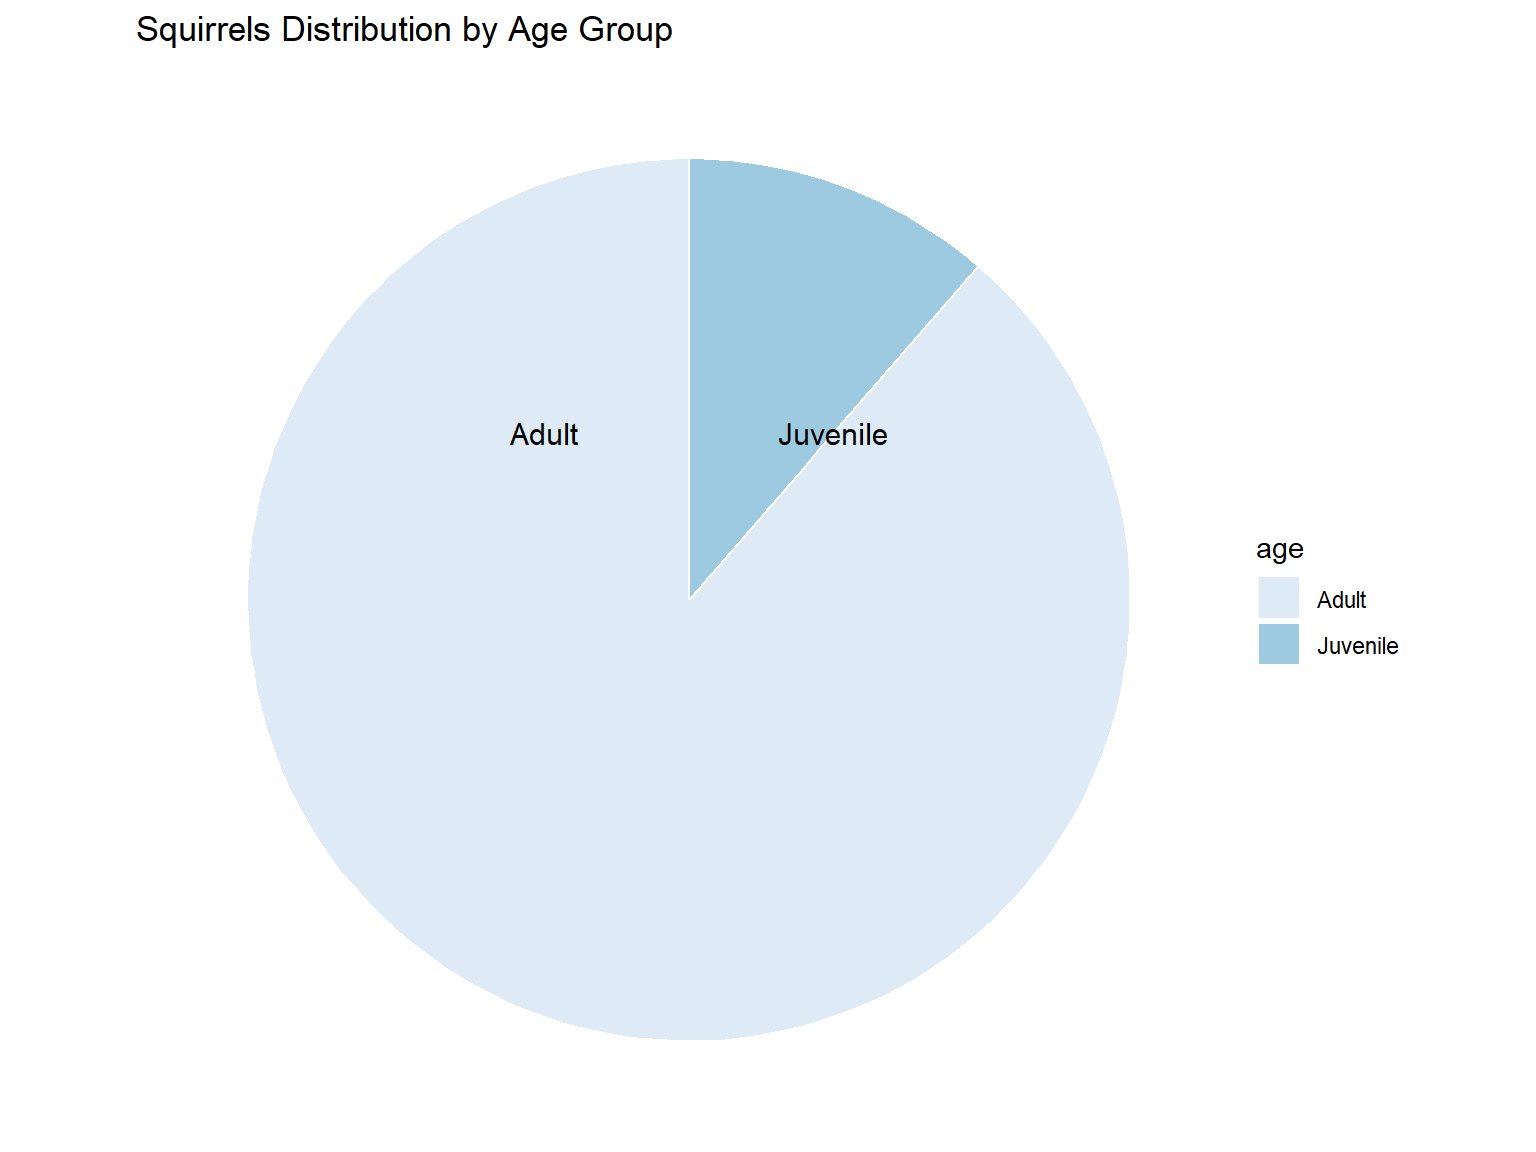
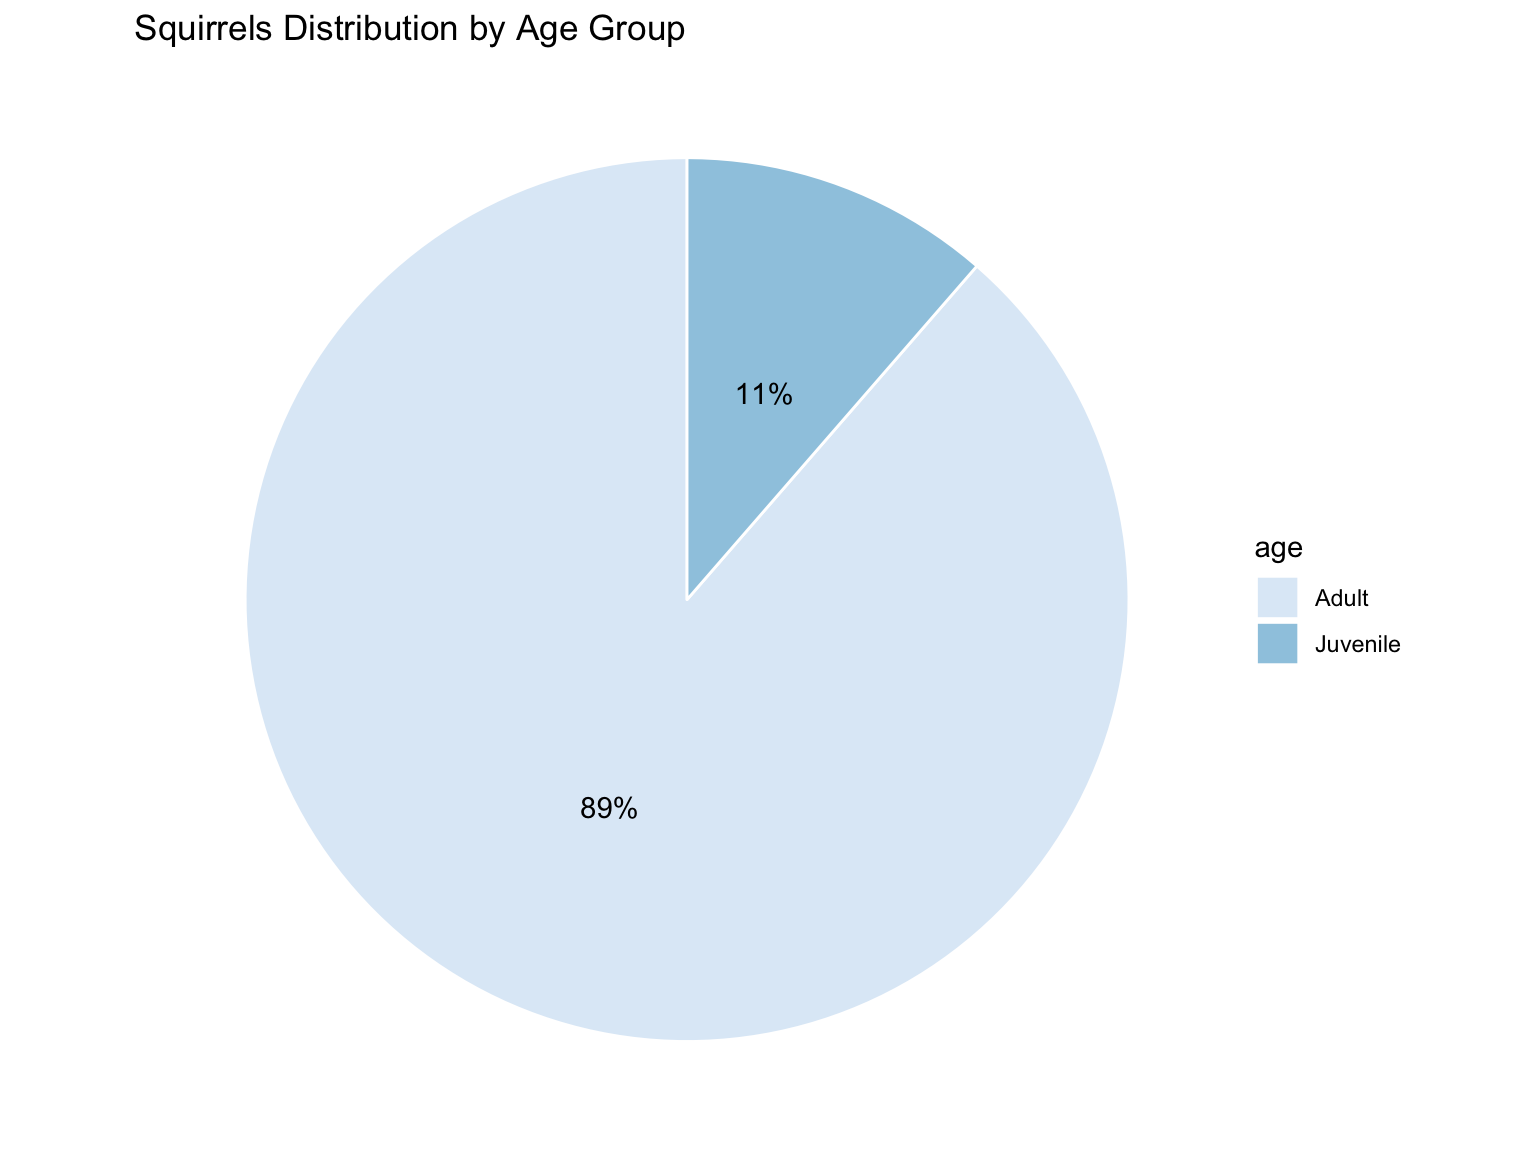
update pie chart

diff --git a/model.html b/model.html
@@ -392,9 +392,9 @@ div.tocify {
 <div id="central-park-squirrels-distribution-by-days-ampm"
 class="section level3">
 <h3>Central Park Squirrels Distribution by Days (AM/PM)</h3>
-<p>In this part, we were interested in looking at the Central Park
-Squirrel Census collected in October 2018. We make this graph to
-analysis the frequency of Squirrel recorded for each of the observation
+<p>In this part, we were interested in looking at the central park
+squirrel census collected in October 2018. We make this graph to
+analysis the frequency of squirrels recorded for each of the observation
 (AM or PM).</p>
 <pre class="r"><code>dates = 
   census %&gt;%
@@ -415,8 +415,8 @@ dates %&gt;%
 <div id="central-park-squirrels-distribution-by-primary-fur-colors"
 class="section level3">
 <h3>Central Park Squirrels Distribution by Primary Fur Colors</h3>
-<p>In this part, we were interested in the frequency of Squirrel
-recorded for each of the observation by primary fur color.</p>
+<p>In this part, we make this graph to analysis the frequency of
+squirrels recorded for each of the observation by primary fur color.</p>
 <pre class="r"><code>dates %&gt;%
   group_by(Day, primary_fur_color) %&gt;% 
   count() %&gt;%
@@ -433,36 +433,24 @@ recorded for each of the observation by primary fur color.</p>
 <div id="central-park-squirrels-distribution-by-age-group"
 class="section level3">
 <h3>Central Park Squirrels Distribution by Age Group</h3>
-<pre class="r"><code>dates %&gt;% 
+<p>In this part, we make this pie chart to display the percentage of
+squirrels by age group.</p>
+<pre class="r"><code>pie_1 = 
+  dates %&gt;% 
   filter(age !=&#39;?&#39;) %&gt;%
   group_by(age) %&gt;%
-  count()%&gt;%
+  count() 
+
+pie_1 %&gt;% 
+  mutate(prop = percent(n/sum(pie_1$n))) %&gt;% 
   ggplot(aes(x=&quot;&quot;, y = n, fill = age)) +
   geom_bar(stat=&quot;identity&quot;, width=1, color=&quot;white&quot;) +
-  coord_polar(&quot;y&quot;, start=0) + 
+  coord_polar(&quot;y&quot;, start = 0, direction = 1) + 
   theme_void() + 
   ggtitle(&#39;Squirrels Distribution by Age Group&#39;) +
-  geom_text(aes(y = n, label = age), color = &quot;black&quot;, size=4) +
-  scale_fill_brewer(palette=&quot;Blues&quot;)</code></pre>
+  geom_text(aes(label = prop),position = position_stack(vjust = 0.5)) +
+  scale_fill_brewer()</code></pre>
 <p><img src="model_files/figure-html/unnamed-chunk-4-1.png" width="90%" /></p>
-<pre class="r"><code>dates %&gt;%
-  filter(age !=&#39;?&#39;) %&gt;%
-  mutate(n=1) %&gt;%
-  group_by(age,primary_fur_color) %&gt;% 
-  count() %&gt;% 
-  ggplot(aes(x=&quot;&quot;, y = n, fill = primary_fur_color)) +
-  geom_bar(stat=&quot;identity&quot;, width=1, color=&quot;white&quot;) +
-  facet_grid(~age) + 
-  coord_polar(&quot;y&quot;, start=0) +
-  theme_void() + 
-  theme(legend.position=&quot;none&quot;) +
-  labs( x =&#39;Age Group&#39;, y= &#39;Proportion&#39;) +
-  labs(fill=&#39;Primary Fur Color&#39;) +
-  scale_fill_manual(values = c(&quot;#000000&quot;, &quot;#D2691E&quot;, &quot;#D3D3D3&quot;, &quot;white&quot;))</code></pre>
-<p><img src="model_files/figure-html/unnamed-chunk-5-1.png" width="90%" /></p>
-<p>pie(x = dates1<span class="math inline">\(n, labels =
-dates1\)</span>primary_fur_color, main = “Squirrels Distribution by Fur
-color”) +</p>
 </div>
 
 
